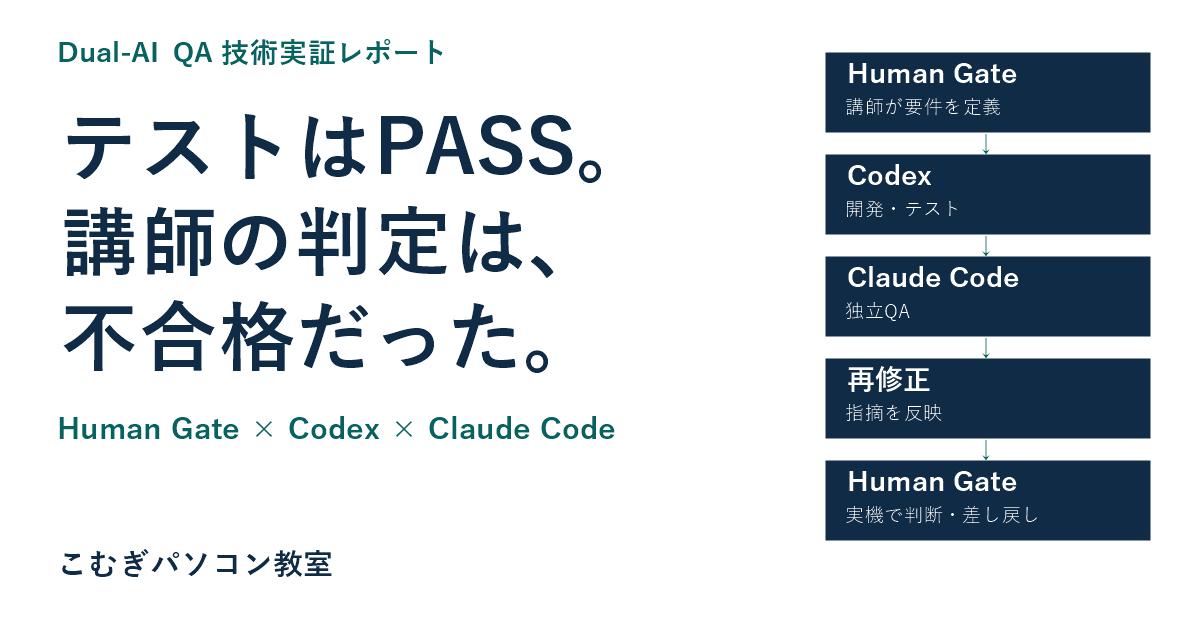
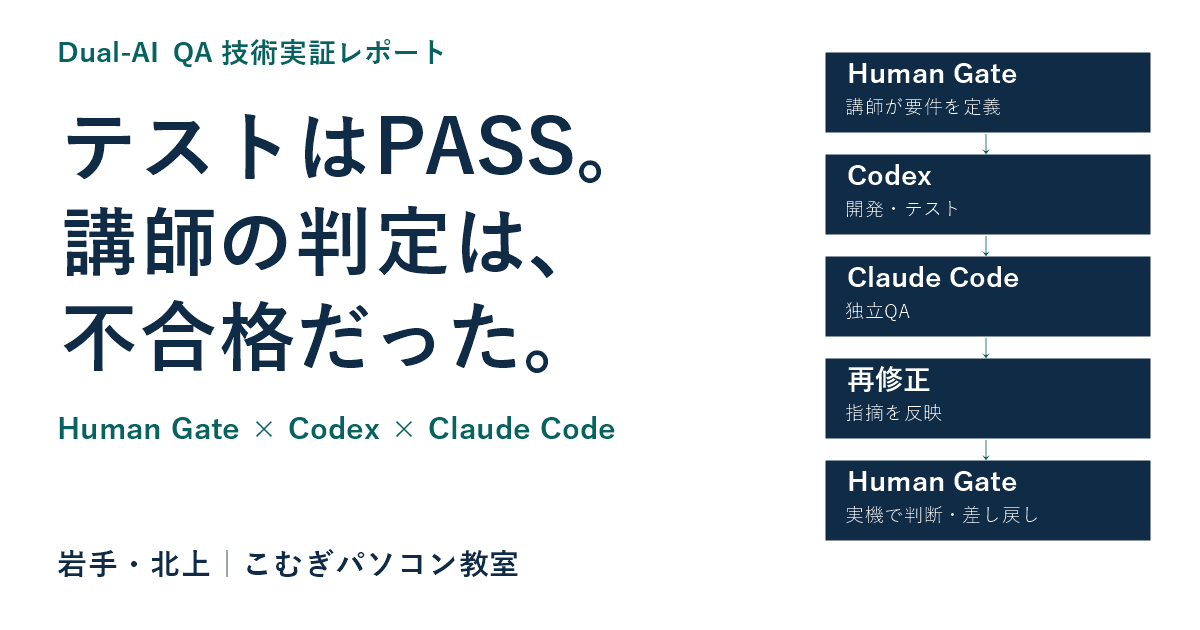
Finalize OGP publisher wording for Iwate Kitakami

Changed region(s): [[0.0308, 0.8746, 0.4317, 0.9349]]

diff --git a/index.html b/index.html
@@ -1,5 +1,5 @@
 <!doctype html>
-<html lang="ja"><head><meta charset="utf-8"><meta name="viewport" content="width=device-width,initial-scale=1"><title>Dual-AI QA 技術実証レポート｜こむぎパソコン教室</title><meta name="description" content="岩手・北上の講師がAI開発アプリを実機で検証し、教育品質として不合格と判断。Human Gateが設計変更、Codexの修正、Claude Codeの独立QA、Mistral・Gemma比較へつながった実証記録。"><meta name="theme-color" content="#102b46"><link rel="canonical" href="https://suguruwada0612-ship-it.github.io/dual-ai-qa-report/"><meta property="og:type" content="article"><meta property="og:locale" content="ja_JP"><meta property="og:title" content="Dual-AI QA 技術実証レポート"><meta property="og:description" content="岩手・北上の講師がAI開発アプリを実機で検証し、教育品質として不合格と判断。Human Gateが設計変更、Codexの修正、Claude Codeの独立QA、Mistral・Gemma比較へつながった実証記録。"><meta property="og:url" content="https://suguruwada0612-ship-it.github.io/dual-ai-qa-report/"><meta property="og:site_name" content="こむぎパソコン教室"><meta property="og:image" content="https://suguruwada0612-ship-it.github.io/dual-ai-qa-report/assets/ogp-dual-ai-qa.png"><meta property="og:image:type" content="image/png"><meta property="og:image:width" content="1200"><meta property="og:image:height" content="630"><meta property="og:image:alt" content="テストはPASS。講師の判定は、不合格だった。Human Gate × Codex × Claude Code。こむぎパソコン教室のDual-AI QA技術実証レポート。"><meta name="twitter:card" content="summary_large_image"><meta name="twitter:title" content="Dual-AI QA 技術実証レポート"><meta name="twitter:description" content="岩手・北上の講師がAI開発アプリを実機で検証し、教育品質として不合格と判断。Human Gateが設計変更、Codexの修正、Claude Codeの独立QA、Mistral・Gemma比較へつながった実証記録。"><meta name="twitter:image" content="https://suguruwada0612-ship-it.github.io/dual-ai-qa-report/assets/ogp-dual-ai-qa.png"><meta name="twitter:image:alt" content="テストはPASS。講師の判定は、不合格だった。Human Gate × Codex × Claude Code。こむぎパソコン教室のDual-AI QA技術実証レポート。"><link rel="icon" href="assets/favicon.svg" type="image/svg+xml"><link rel="stylesheet" href="assets/style.css"></head>
+<html lang="ja"><head><meta charset="utf-8"><meta name="viewport" content="width=device-width,initial-scale=1"><title>Dual-AI QA 技術実証レポート｜こむぎパソコン教室</title><meta name="description" content="岩手・北上の講師がAI開発アプリを実機で検証し、教育品質として不合格と判断。Human Gateが設計変更、Codexの修正、Claude Codeの独立QA、Mistral・Gemma比較へつながった実証記録。"><meta name="theme-color" content="#102b46"><link rel="canonical" href="https://suguruwada0612-ship-it.github.io/dual-ai-qa-report/"><meta property="og:type" content="article"><meta property="og:locale" content="ja_JP"><meta property="og:title" content="Dual-AI QA 技術実証レポート"><meta property="og:description" content="岩手・北上の講師がAI開発アプリを実機で検証し、教育品質として不合格と判断。Human Gateが設計変更、Codexの修正、Claude Codeの独立QA、Mistral・Gemma比較へつながった実証記録。"><meta property="og:url" content="https://suguruwada0612-ship-it.github.io/dual-ai-qa-report/"><meta property="og:site_name" content="こむぎパソコン教室"><meta property="og:image" content="https://suguruwada0612-ship-it.github.io/dual-ai-qa-report/assets/ogp-dual-ai-qa.png"><meta property="og:image:type" content="image/png"><meta property="og:image:width" content="1200"><meta property="og:image:height" content="630"><meta property="og:image:alt" content="テストはPASS。講師の判定は、不合格だった。Human Gate × Codex × Claude Code。Dual-AI QA 技術実証レポート。岩手・北上｜こむぎパソコン教室。"><meta name="twitter:card" content="summary_large_image"><meta name="twitter:title" content="Dual-AI QA 技術実証レポート"><meta name="twitter:description" content="岩手・北上の講師がAI開発アプリを実機で検証し、教育品質として不合格と判断。Human Gateが設計変更、Codexの修正、Claude Codeの独立QA、Mistral・Gemma比較へつながった実証記録。"><meta name="twitter:image" content="https://suguruwada0612-ship-it.github.io/dual-ai-qa-report/assets/ogp-dual-ai-qa.png"><meta name="twitter:image:alt" content="テストはPASS。講師の判定は、不合格だった。Human Gate × Codex × Claude Code。Dual-AI QA 技術実証レポート。岩手・北上｜こむぎパソコン教室。"><link rel="icon" href="assets/favicon.svg" type="image/svg+xml"><link rel="stylesheet" href="assets/style.css"></head>
 <body><a class="skip-link" href="#main">本文へ移動</a><header class="site-header"><div class="container"><a class="brand" href="index.html">こむぎパソコン教室<small>技術実証レポート · 岩手県北上市</small></a><nav class="nav" aria-label="メインナビゲーション"><a href="index.html" aria-current="page">レポート</a><a href="evidence.html">根拠・集計</a><a href="press.html">プレスリリース</a></nav></div></header>
 <main id="main" class="container"><section class="hero"><p class="eyebrow">KOMUGI / HUMAN GATE × DUAL-AI QA</p><h1>テストはPASS。<br>講師の判定は、<br>不合格だった。</h1><p class="lede">Dual-AI QA 技術実証レポート</p><p>岩手・北上の講師が実機で見つけた、AIの不備。<br>現場の判断が、設計変更とモデル比較を動かした記録。</p><p class="note">170テスト成功後にも、講師の実機確認で回答品質の不備を発見（Issue #4→#5）。</p><p class="note">現場専門家の要件定義・Human Gate × Codexの開発 × Claude Codeの独立QA</p><div class="meta"><span>発信：こむぎパソコン教室</span><span>2026年11月22日 公開・更新</span></div><div class="actions"><a class="button" href="#human-gate">講師の判断と経緯を読む</a><a class="button secondary" href="press.html">報道関係者の方へ</a></div><p class="note">通常モデルはMistral。Gemmaは正式採用しておらず、Issue #8修正後の実応答品質は再検証待ちです。</p><div class="metrics"><div class="metric"><span class="metric-value">10<small>対応</small></span><span class="metric-label">Human Gate起点の修正<br>受入合格数とは異なる</span></div><div class="metric"><span class="metric-value">2,970<small>件</small></span><span class="metric-label">主要自動テストの延べケース実行<br>37回分の記録・繰り返しを含む</span></div><div class="metric"><span class="metric-value">200<small>ケース</small></span><span class="metric-label">最新の全体テスト数<br>固定受入5ケースを含む</span></div><div class="metric"><span class="metric-value">43<small>回以上</small></span><span class="metric-label">独立QAの起動記録<br>結果取得41回・未取得2回</span></div></div><p class="note">資料照合で過去の独立QA3回を追加確認。既存集計40回からの<a href="evidence.html#correction">補正理由を公開</a>しています。</p></section><nav class="toc" aria-label="レポートの目次"><h2>このレポートで分かること</h2><ol><li><a href="#overview">取り組みの背景</a></li><li><a href="#human-gate">講師の判断が動かした設計・検証</a></li><li><a href="#roles">3者の役割分担</a></li><li><a href="#process">検証の流れ</a></li><li><a href="#cases">問題発見と修正の事例</a></li><li><a href="#metrics">集計と数え方</a></li><li><a href="#findings">成果と残る課題</a></li><li><a href="#publication">公開資料・発信者</a></li></ol></nav><article class="article prose"><h2 id="overview">自動テストがPASSしても、授業には不合格だった</h2>
 <p>岩手県北上市のこむぎパソコン教室では、講師がAIで開発した教室運営・学習支援アプリ「KOMUGI Classroom DX」を実機で繰り返し試し、学習の順序、画面の使い勝手、AIの回答に問題を見つけました。自動テストがPASSした後にも、明確な文章作成の指示にAIが確認質問を返すなど、授業では受け入れられない応答が残っていました。講師は「Human Gate」で不合格と判断し、設計変更と修正、文章を生成するAIモデル（LLM）の比較検証を求めました。</p>

diff --git a/press.html b/press.html
@@ -1,5 +1,5 @@
 <!doctype html>
-<html lang="ja"><head><meta charset="utf-8"><meta name="viewport" content="width=device-width,initial-scale=1"><title>岩手・北上の個人パソコン教室、AI開発アプリを講師が不合格判定、設計変更と異種AI検証の記録を公開｜こむぎパソコン教室</title><meta name="description" content="こむぎパソコン教室が、講師の実機検証・不合格判断から設計変更と異種AIの独立QA、モデル比較に至った記録を公開。2026年11月22日発表。"><meta name="theme-color" content="#102b46"><link rel="canonical" href="https://suguruwada0612-ship-it.github.io/dual-ai-qa-report/press.html"><meta property="og:type" content="article"><meta property="og:locale" content="ja_JP"><meta property="og:title" content="岩手・北上の個人パソコン教室、AI開発アプリを講師が不合格判定、設計変更と異種AI検証の記録を公開"><meta property="og:description" content="こむぎパソコン教室が、講師の実機検証・不合格判断から設計変更と異種AIの独立QA、モデル比較に至った記録を公開。2026年11月22日発表。"><meta property="og:url" content="https://suguruwada0612-ship-it.github.io/dual-ai-qa-report/press.html"><meta property="og:site_name" content="こむぎパソコン教室"><meta property="og:image" content="https://suguruwada0612-ship-it.github.io/dual-ai-qa-report/assets/ogp-dual-ai-qa.png"><meta property="og:image:type" content="image/png"><meta property="og:image:width" content="1200"><meta property="og:image:height" content="630"><meta property="og:image:alt" content="テストはPASS。講師の判定は、不合格だった。Human Gate × Codex × Claude Code。こむぎパソコン教室のDual-AI QA技術実証レポート。"><meta name="twitter:card" content="summary_large_image"><meta name="twitter:title" content="岩手・北上の個人パソコン教室、AI開発アプリを講師が不合格判定、設計変更と異種AI検証の記録を公開"><meta name="twitter:description" content="こむぎパソコン教室が、講師の実機検証・不合格判断から設計変更と異種AIの独立QA、モデル比較に至った記録を公開。2026年11月22日発表。"><meta name="twitter:image" content="https://suguruwada0612-ship-it.github.io/dual-ai-qa-report/assets/ogp-dual-ai-qa.png"><meta name="twitter:image:alt" content="テストはPASS。講師の判定は、不合格だった。Human Gate × Codex × Claude Code。こむぎパソコン教室のDual-AI QA技術実証レポート。"><link rel="icon" href="assets/favicon.svg" type="image/svg+xml"><link rel="stylesheet" href="assets/style.css"></head>
+<html lang="ja"><head><meta charset="utf-8"><meta name="viewport" content="width=device-width,initial-scale=1"><title>岩手・北上の個人パソコン教室、AI開発アプリを講師が不合格判定、設計変更と異種AI検証の記録を公開｜こむぎパソコン教室</title><meta name="description" content="こむぎパソコン教室が、講師の実機検証・不合格判断から設計変更と異種AIの独立QA、モデル比較に至った記録を公開。2026年11月22日発表。"><meta name="theme-color" content="#102b46"><link rel="canonical" href="https://suguruwada0612-ship-it.github.io/dual-ai-qa-report/press.html"><meta property="og:type" content="article"><meta property="og:locale" content="ja_JP"><meta property="og:title" content="岩手・北上の個人パソコン教室、AI開発アプリを講師が不合格判定、設計変更と異種AI検証の記録を公開"><meta property="og:description" content="こむぎパソコン教室が、講師の実機検証・不合格判断から設計変更と異種AIの独立QA、モデル比較に至った記録を公開。2026年11月22日発表。"><meta property="og:url" content="https://suguruwada0612-ship-it.github.io/dual-ai-qa-report/press.html"><meta property="og:site_name" content="こむぎパソコン教室"><meta property="og:image" content="https://suguruwada0612-ship-it.github.io/dual-ai-qa-report/assets/ogp-dual-ai-qa.png"><meta property="og:image:type" content="image/png"><meta property="og:image:width" content="1200"><meta property="og:image:height" content="630"><meta property="og:image:alt" content="テストはPASS。講師の判定は、不合格だった。Human Gate × Codex × Claude Code。Dual-AI QA 技術実証レポート。岩手・北上｜こむぎパソコン教室。"><meta name="twitter:card" content="summary_large_image"><meta name="twitter:title" content="岩手・北上の個人パソコン教室、AI開発アプリを講師が不合格判定、設計変更と異種AI検証の記録を公開"><meta name="twitter:description" content="こむぎパソコン教室が、講師の実機検証・不合格判断から設計変更と異種AIの独立QA、モデル比較に至った記録を公開。2026年11月22日発表。"><meta name="twitter:image" content="https://suguruwada0612-ship-it.github.io/dual-ai-qa-report/assets/ogp-dual-ai-qa.png"><meta name="twitter:image:alt" content="テストはPASS。講師の判定は、不合格だった。Human Gate × Codex × Claude Code。Dual-AI QA 技術実証レポート。岩手・北上｜こむぎパソコン教室。"><link rel="icon" href="assets/favicon.svg" type="image/svg+xml"><link rel="stylesheet" href="assets/style.css"></head>
 <body><a class="skip-link" href="#main">本文へ移動</a><header class="site-header"><div class="container"><a class="brand" href="index.html">こむぎパソコン教室<small>技術実証レポート · 岩手県北上市</small></a><nav class="nav" aria-label="メインナビゲーション"><a href="index.html">レポート</a><a href="evidence.html">根拠・集計</a><a href="press.html" aria-current="page">プレスリリース</a></nav></div></header>
 <main id="main" class="container"><article class="article prose"><p class="eyebrow">PRESS RELEASE</p><h1>岩手・北上の個人パソコン教室、AI開発アプリを講師が不合格判定、設計変更と異種AI検証の記録を公開</h1>
 <p>発表日：2026年11月22日｜発信：こむぎパソコン教室</p>

diff --git a/VERIFICATION.md b/VERIFICATION.md
@@ -45,3 +45,9 @@
 
 1200×630 PNG、編集用SVG、再生成スクリプトを追加。見出し76px、紺・白・青緑で講師の不合格判断を中心に構成。画像を目視し、日本語の欠け・重なりなし。index/pressに絶対URLのog:image・寸法・altとsummary_large_imageのTwitter Cardを設定。本文・集計・採用判断は変更なし。SNS各社での実際の投稿・キャッシュ更新は未検証。
 - 公開後確認：Pagesビルド0e858d6成功。本番PNGのHTTP 200、ローカルとのバイト一致、1200×630を確認。公開index.htmlとpress.htmlのog:image/twitter:imageが指定の絶対PNG URLに一致し、寸法・alt・summary_large_imageも検査PASS。
+
+## OGP文言の最終確定（2026年11月22日）
+
+- 発信者を確定文言「岩手・北上｜こむぎパソコン教室」に更新。メイン見出し・サブ見出し・補助タイトルは指定どおり維持。1200×630 PNGと編集用SVGを同じ生成元から再作成した。
+- index.html/press.htmlの画像代替テキストとビルド生成元も同期。og:image/twitter:imageは同じ絶対PNG URL、寸法1200×630、summary_large_imageを維持。
+- 公開前：PNG寸法・SVGの確定文言・両ページのmetaを検査PASS。両HTMLのbody部分が更新前と完全一致することを確認。通常の集計・リンク検査もPASS。変更対象は公開リポジトリのみ。
